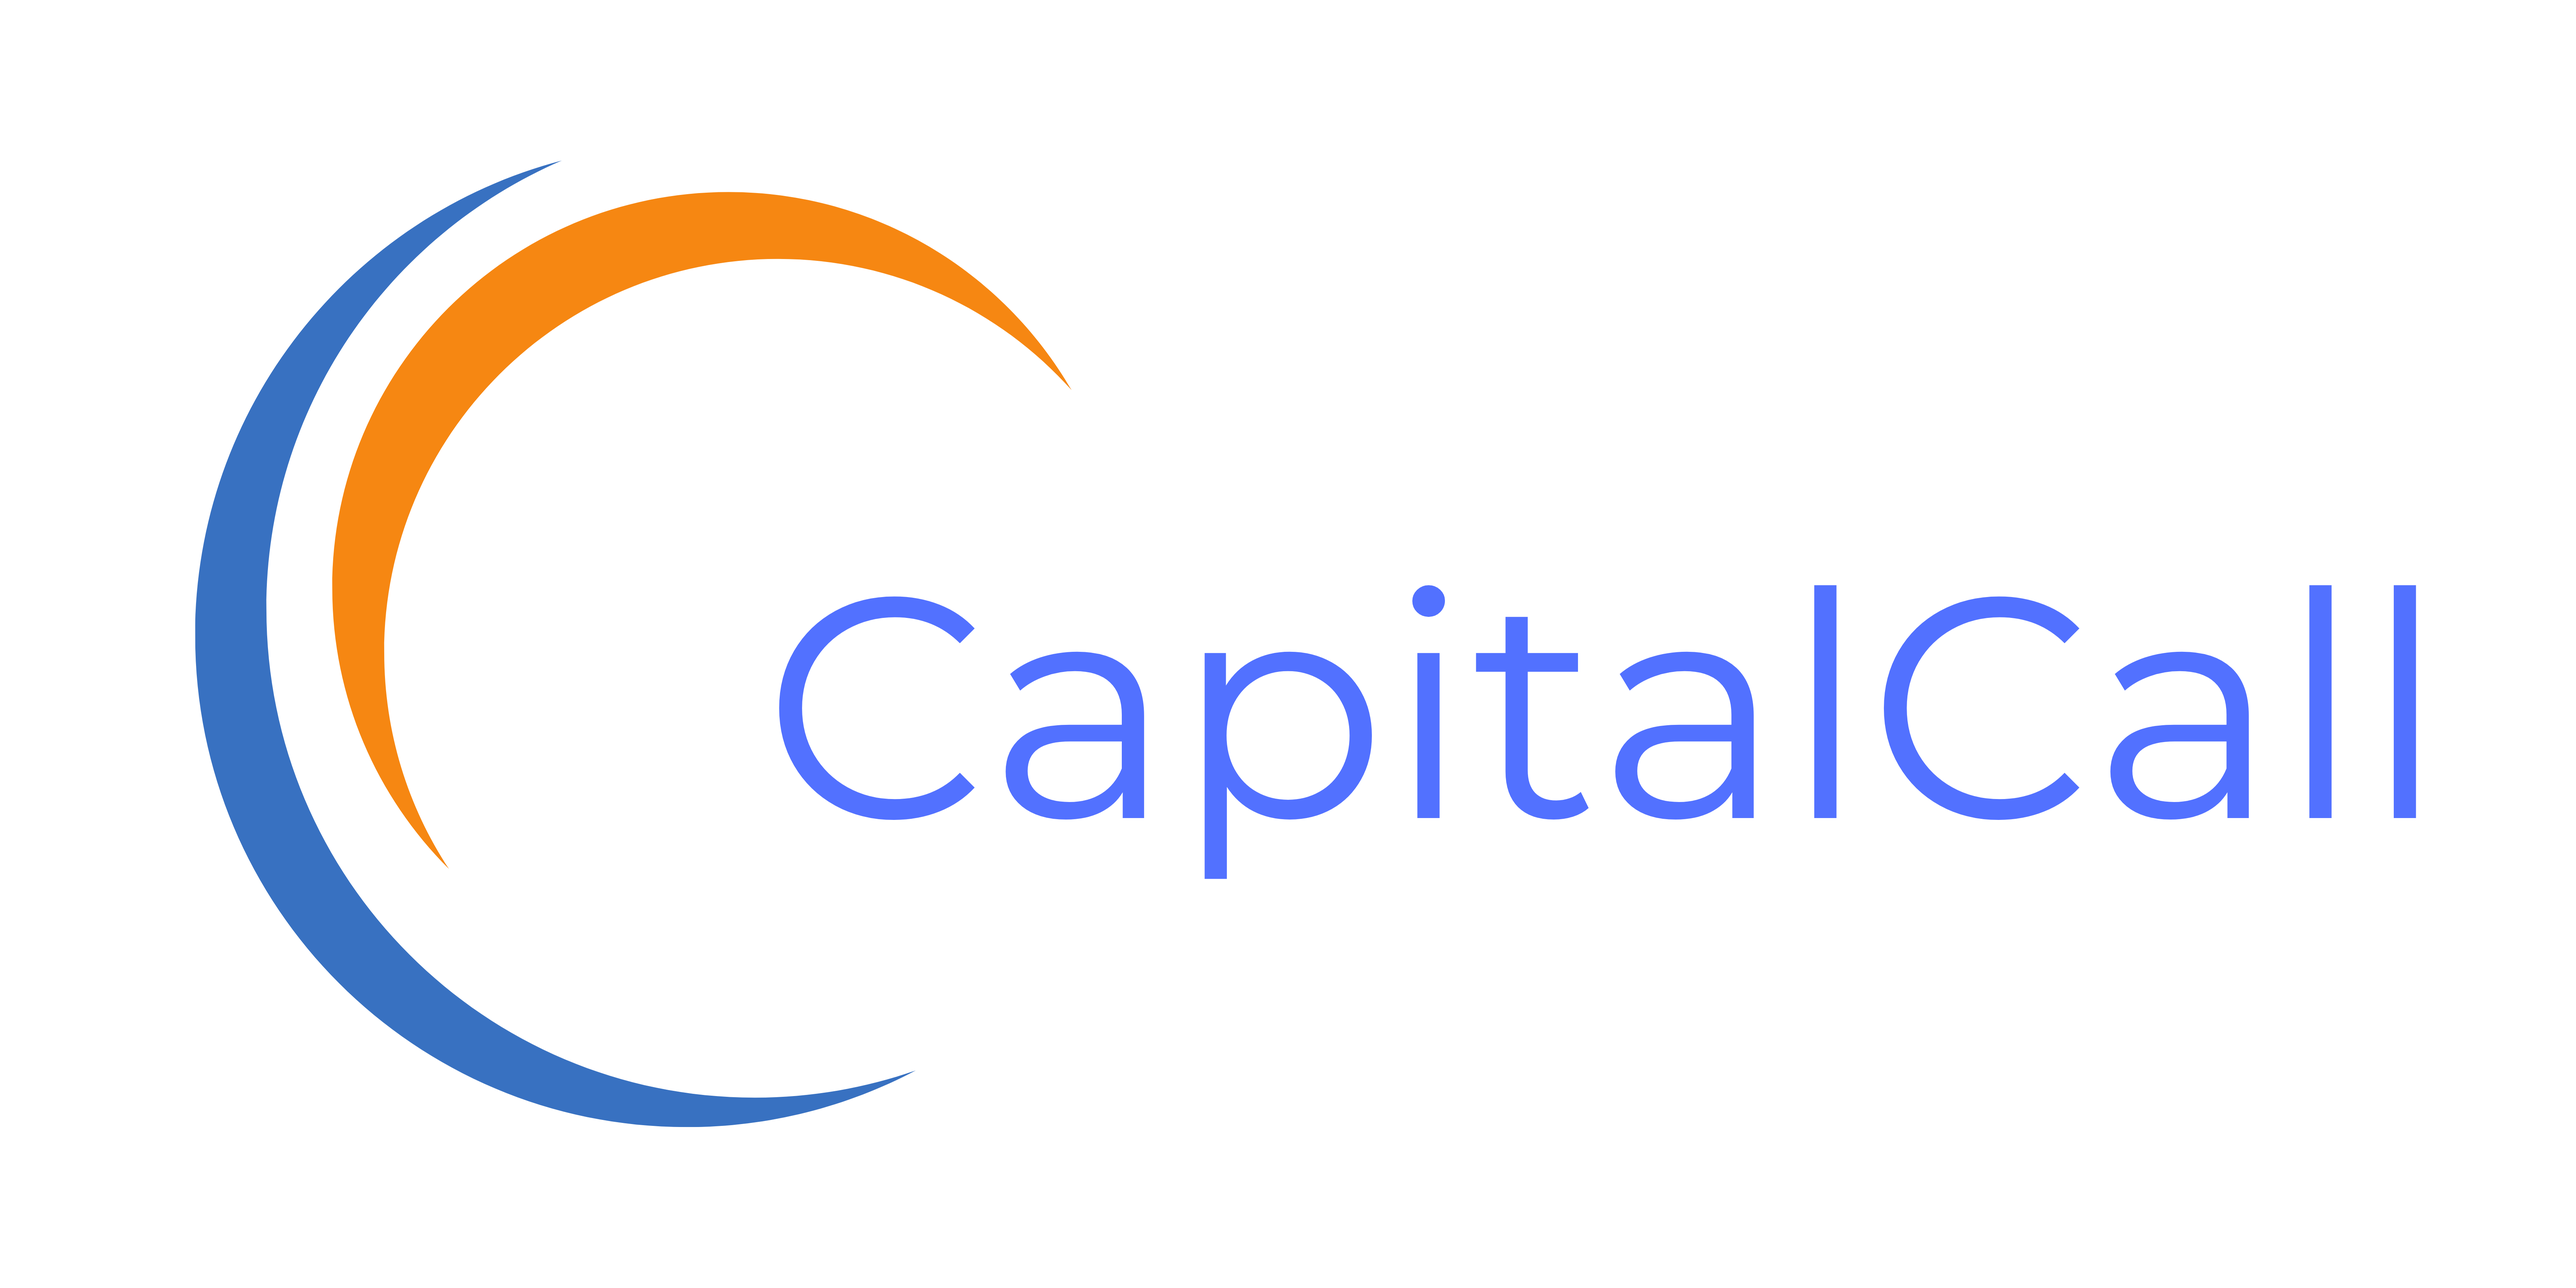
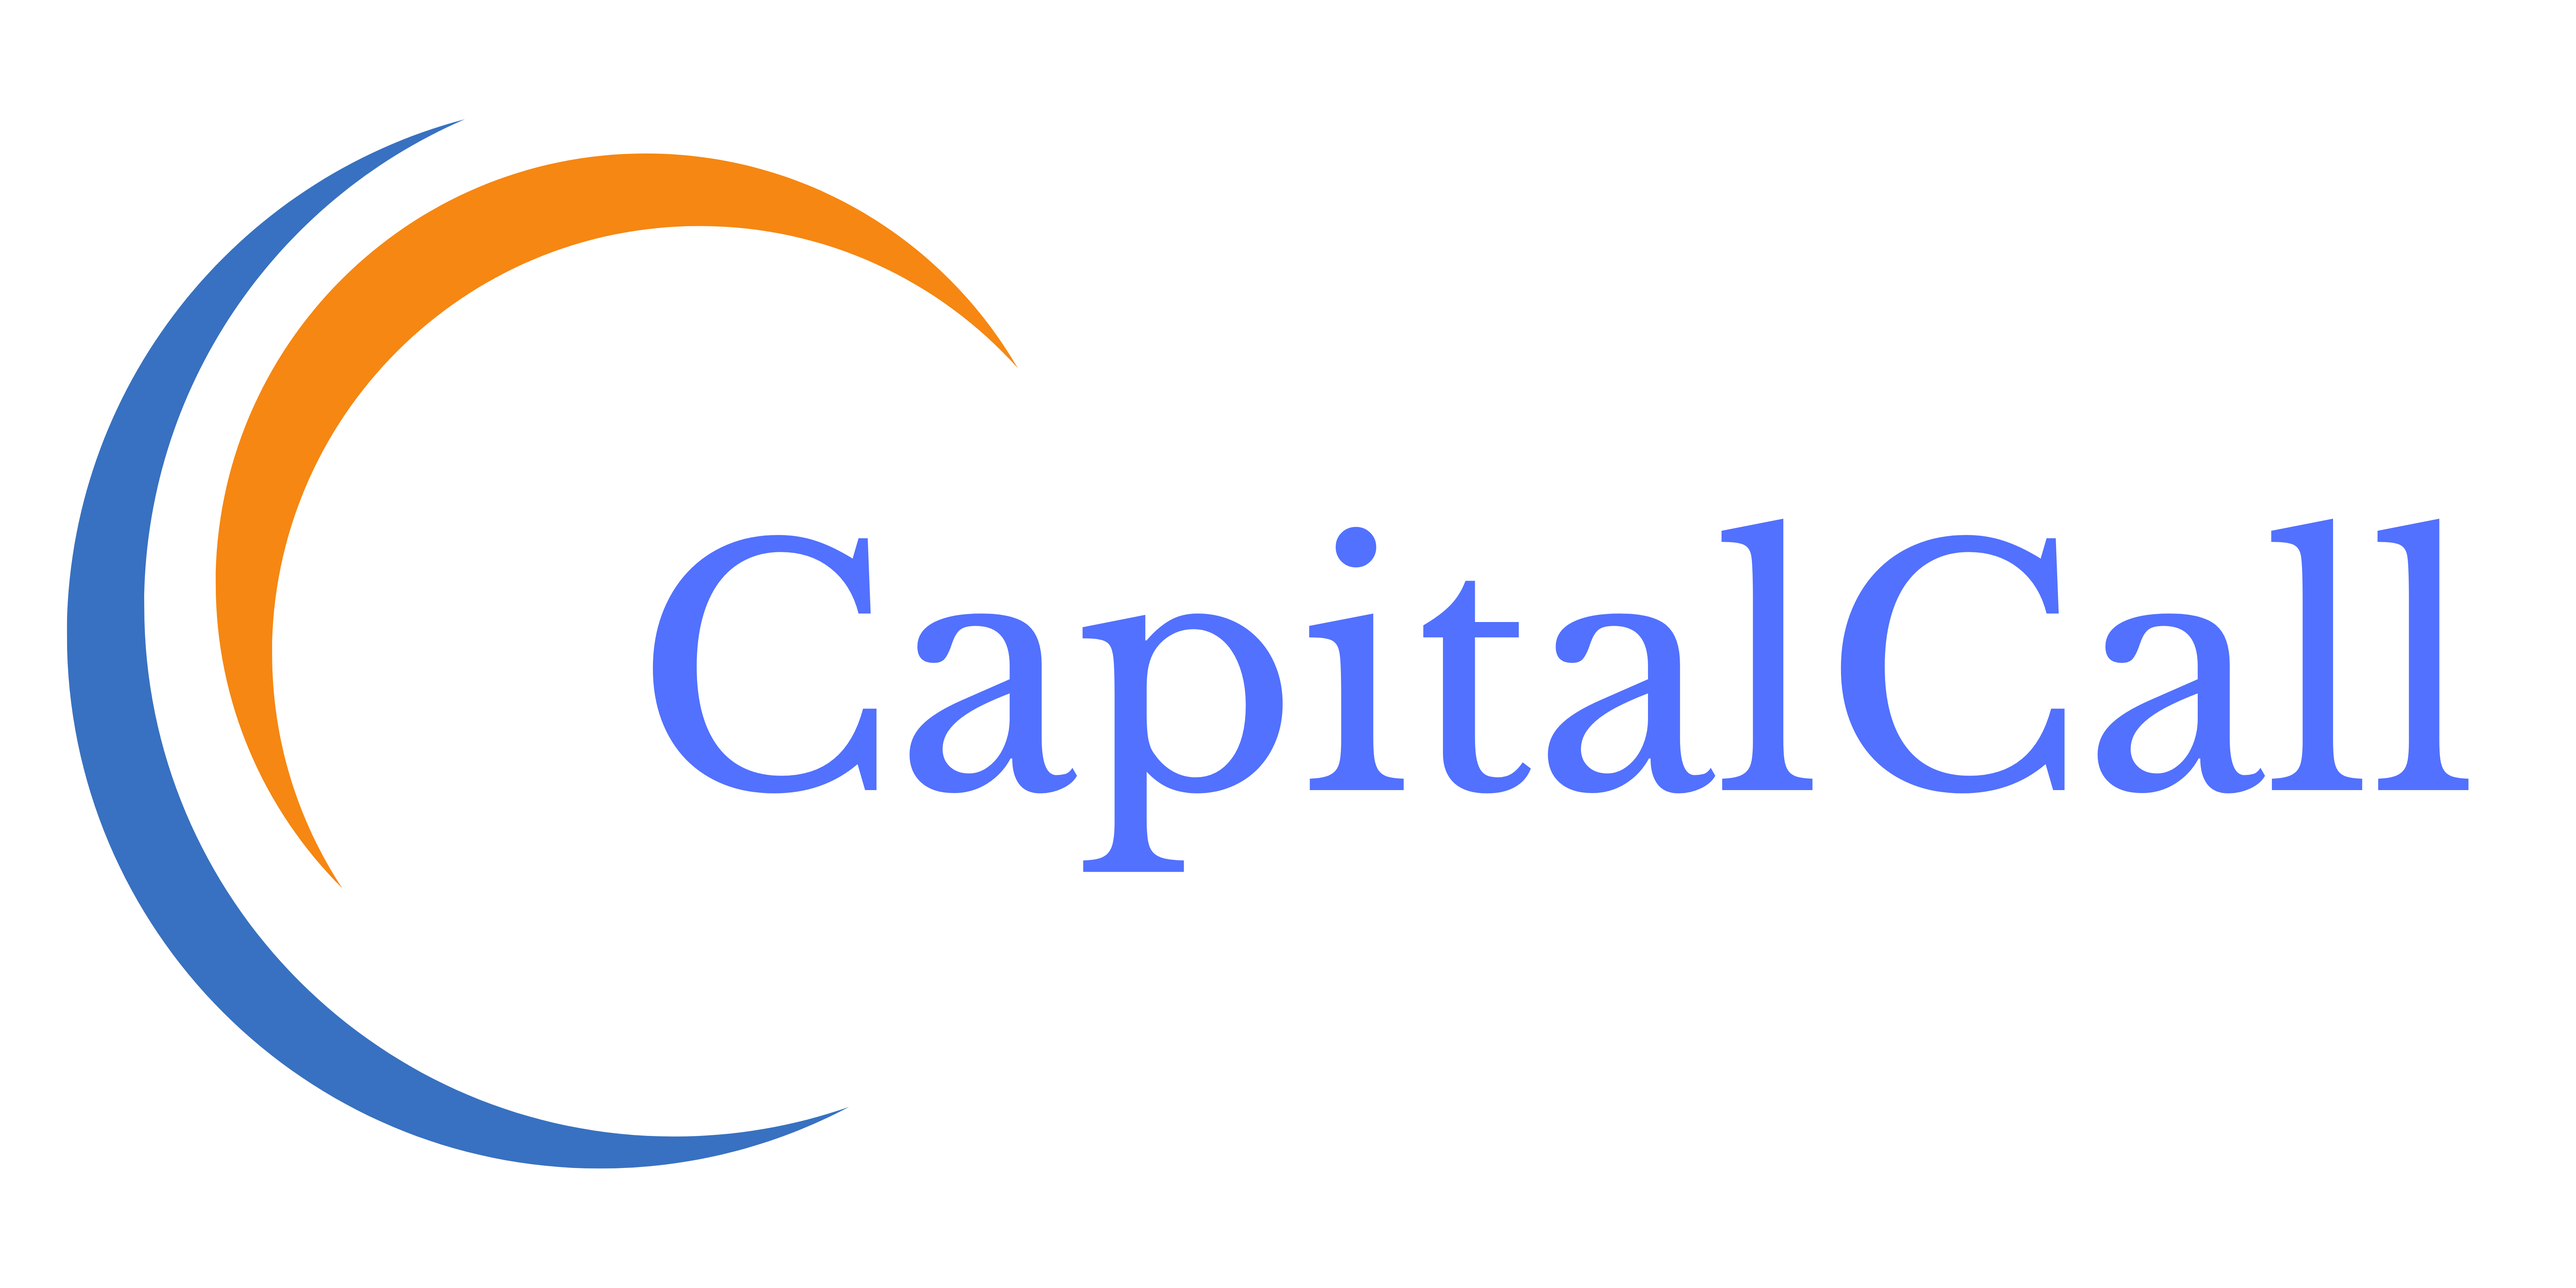
Navbar and footer done. Funtionality pending. Updated home body. Added scraper to get economic data for home page

diff --git a/predictions/templates/partials/_navbar.html b/predictions/templates/partials/_navbar.html
@@ -1,7 +1,7 @@
 {% load static %}
-<nav class="navbar navbar-expand-lg bg-custom ">
-    <div class="container">
-        <a class="navbar-brand" href="{% url 'home' %}">
+<nav class="navbar navbar-expand-lg bg-custom">
+    <div class="container-fluid mx-3">
+        <a class="navbar-brand p-0" href="{% url 'home' %}">
             <img src="{% static 'images/CapitalCall-banner.png' %}" alt="Navbar logo" class="navbar-image">
         </a>
         <button class="navbar-toggler" type="button" data-bs-toggle="collapse"
@@ -11,29 +11,29 @@
         </button>
         <div class="collapse navbar-collapse" id="navbarSupportedContent">
             <ul class="navbar-nav mb-2 mb-lg-0 ms-auto">
-                <li>
-                    <a class="nav-link navbar-font" href="#">Home</a>
+                <li class="nav-item">
+                    <a class="nav-link navbar-text" href="#">Home</a>
                 </li>
 
 
                 {% if user.is_authenticated %}
                 <li class="nav-item">
-                    <a class="nav-link navbar-font" href="#">My Passwords</a>
+                    <a class="nav-link navbar-text" href="#">My Passwords</a>
                 </li>
 
                 <li class="nav-item">
-                    <a class="nav-link navbar-font" href="#">Create Password</a>
+                    <a class="nav-link navbar-text" href="#">Create Password</a>
                 </li>
 
                 <li class="nav-item">
-                    <a class="nav-link navbar-font" href="#">Logout</a>
+                    <a class="nav-link navbar-text" href="#">Logout</a>
                 </li>
                 {% else %}
                 <li class="nav-item">
-                    <a class="nav-link navbar-font" href="#">Sign up</a>
+                    <a class="nav-link navbar-text" href="#">Sign up</a>
                 </li>
                 <li class="nav-item">
-                    <a class="nav-link navbar-font" href="#">Sign in</a>
+                    <a class="nav-link navbar-text" href="#">Sign in</a>
                 </li>
                 {% endif %}
             </ul>

diff --git a/predictions/templates/home.html b/predictions/templates/home.html
@@ -2,20 +2,24 @@
 {% load static %}
 
 {% block content %}
-<main class="container py-5 text-center">
+<main class="text-center">
     <div class="row">
-        <div class="col px-5 offset-3">
-            <section class="card card-body " style="width: 35rem;">
-                <img src="{% static 'images/CapitalCall-logo.png' %}" alt="...">
-                <div class="text-center">
-                    <a class="btn btn-primary custom-button" href="#">
-                        Sign in
-                    </a>
-                    <a class="btn btn-primary custom-button" href="#">
-                        Sign up
-                    </a>
+        <div class="col">
+            <section class="card mb-3">
+                <div class="row g-0">
+                    <div class="col-md-5">
+                        <div class="card-body d-flex flex-column justify-content-center" style="height: 35rem;">
+                            <h5 class="home-background-title">Optimize your marketing strategy</h5>
+                            <p class="home-custom-card-text">CapitalCall works with a trained machine learning model designed to optimize your marketing campaigns for term deposits by telling you if a client is likely to accept it.</p>
+                            <a href="#" class="btn btn-primary align-self-center" style="width: 10em;">Learn More</a>
+                        </div>
+                    </div>
+                    <div class="col-md-7">
+                        <img src="{% static 'images/home-background.png' %}" class="img-fluid rounded-start" alt="..." style="height: 35rem;">
+                    </div>
                 </div>
             </section>
+
         </div>
     </div>
 </main>

diff --git a/predictions/static/css/predictions.css b/predictions/static/css/predictions.css
@@ -4,19 +4,40 @@
     --font-size-1: 1.5rem;
     --font-size-2: 1.25rem;
     --font-size-3: 1rem;
+    --font-size-4: 0.9rem;
+    --default-font-family: 'Libre Baskerville';
   }
 
   .bg-custom {
-    background-color: var(--custom-gray);
+    background-color: var(--custom-gray); 
   }
 
 
-  .navbar-font {
+  .navbar-text {
     color:var(--royal-blue);
     font-size: var(--font-size-2);
+    margin: 0 0 0 1em;
+    font-family: var(--default-font-family);
   }
 
   .navbar-image {
     width: 8em;
     height: 4em;
+  }
+
+  .navbar { 
+    padding-bottom: 0;
+    padding-top: 0;
+  }
+
+
+  .home-background-title {
+    font-size: var(--font-size-1);
+    color:var(--royal-blue);
+    font-family: var(--default-font-family);
+  }
+
+  .home-custom-card-text {
+    font-family: var(--default-font-family);
+    font-size: var(--font-size-4);
   }

diff --git a/predictions/templates/base.html b/predictions/templates/base.html
@@ -12,6 +12,7 @@
     <link rel="stylesheet" href="{% static 'css/predictions.css' %}">
     <link rel="stylesheet" href="https://cdn.jsdelivr.net/npm/@fortawesome/fontawesome-free@5.15.4/css/fontawesome.min.css" integrity="sha384-jLKHWM3JRmfMU0A5x5AkjWkw/EYfGUAGagvnfryNV3F9VqM98XiIH7VBGVoxVSc7" crossorigin="anonymous">
     <script src="https://kit.fontawesome.com/248d93b7fa.js" crossorigin="anonymous"></script>
+    <link href='https://fonts.googleapis.com/css?family=Libre Baskerville' rel='stylesheet'>
 </head>
 
 <body>

diff --git a/predictions/templates/partials/_footer.html b/predictions/templates/partials/_footer.html
@@ -1,1 +1,4 @@
-<h1>Footer</h1>
+<footer class="text-center text-secondary mt-5">
+    <p>&copy; All rights reserved {% now 'Y' %}
+        | Developed by <a href="https://www.lucianocabrales.com/" target="_blank" class="text-decoration-none text-secondary">[LCF]</a></p>
+</footer>

diff --git a/predictions/utils/scraper.py b/predictions/utils/scraper.py
@@ -1,0 +1,20 @@
+from bs4 import BeautifulSoup
+import pandas as pd
+import requests
+
+def get_economic_indicators():
+    page = requests.get("https://www.moreexchange.cl/tipo-de-cambio-de-divisas-more-exchange/")
+
+    soup = BeautifulSoup(page.text, "html.parser")
+
+    table = soup.find_all("table")
+    df_list =  pd.read_html(str(table))
+    # print(df_list[0])
+    return {
+        'dolar': {'bid': df_list[0].loc[0, 'Compra'], 'ask': df_list[0].loc[0, 'Venta']},
+        'euro': {'bid': df_list[1].loc[0, 'Compra'], 'ask': df_list[1].loc[0, 'Venta']}
+    }
+
+
+
+
